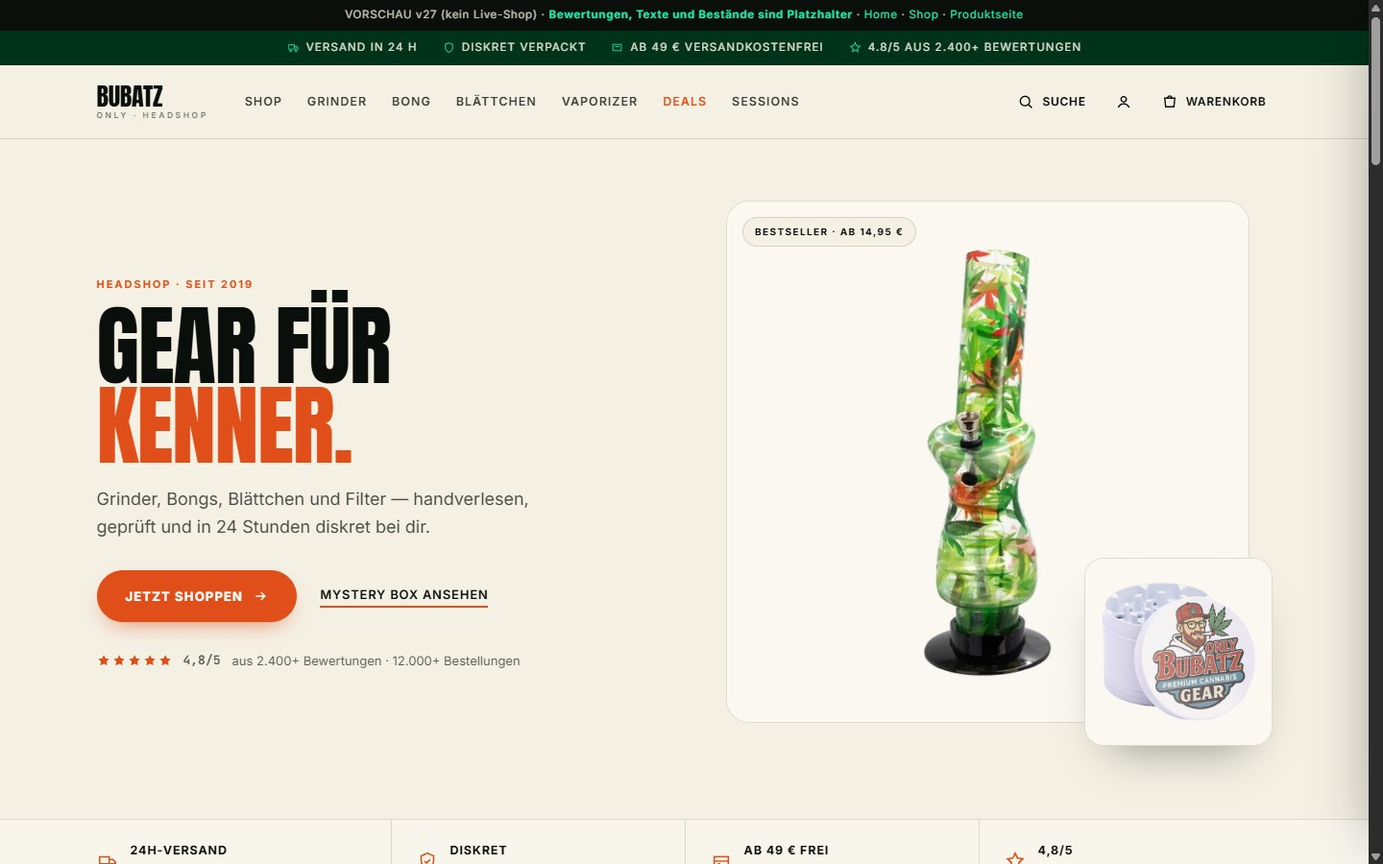
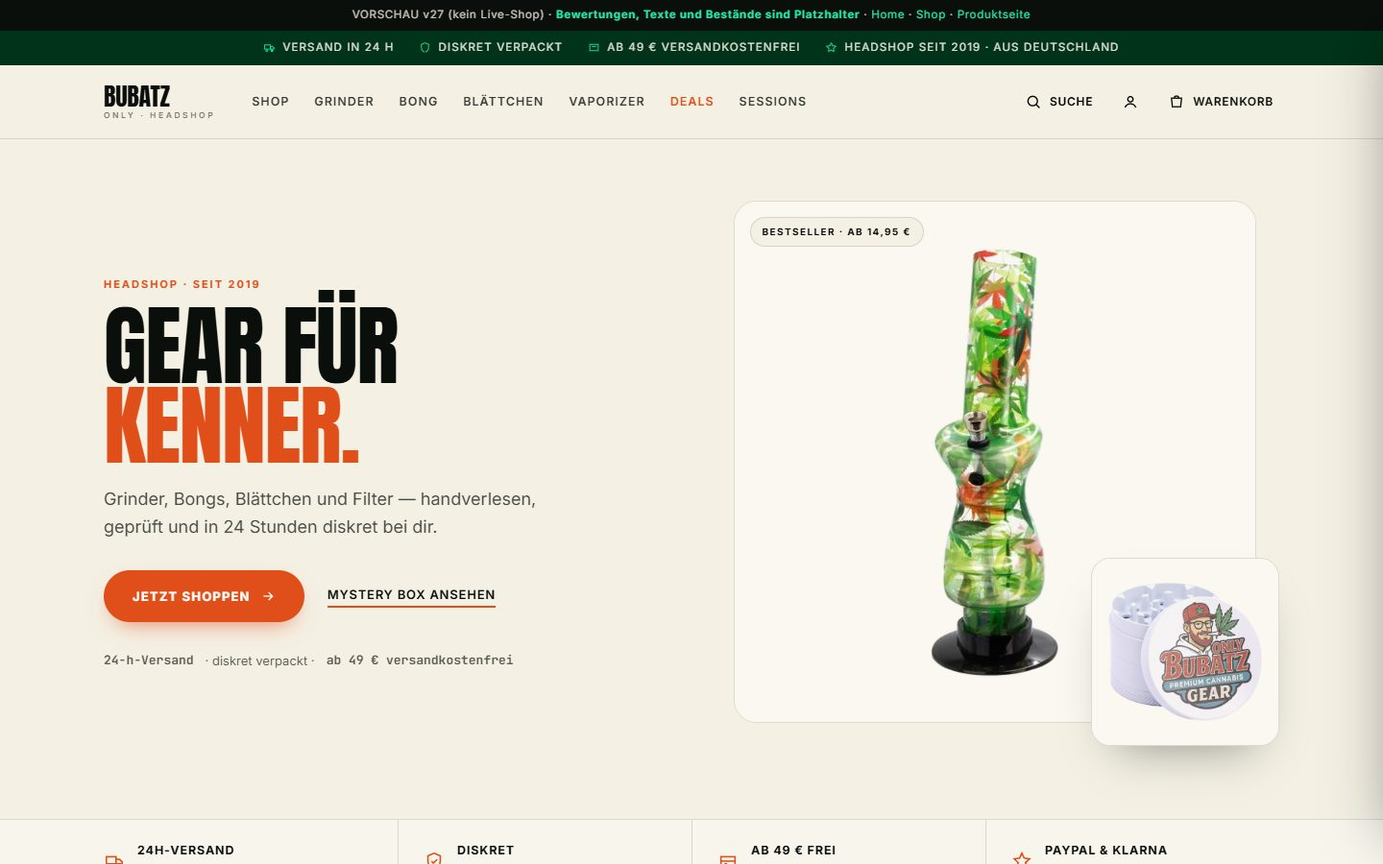
v27: erfundene Bewertungen, Bestellzahlen und Streichpreise entfernt
- Vorschau-Leiste: '4.8/5 aus 2.400+ Bewertungen' -> 'HEADSHOP SEIT 2019 · AUS DEUTSCHLAND'
- Hero-Proof: Sterne-Zeile -> '24-h-Versand · diskret · ab 49 € versandkostenfrei'
- Benefit 4: '4,8/5 / 2.400+ Bewertungen' -> 'PayPal & Klarna / Zahlung wie gewohnt'
- Revband Startseite: 4,8 + drei erfundene Kunden -> Hinweis auf die 3 echten Bewertungen
- PDP: '328 Bewertungen · 12 heute gekauft', '4,9 von 5', '96 %' und drei erfundene Kunden entfernt
- Streichpreis: 24,99/29,99 (-17%, 29,99 existiert nicht) -> 21,99/24,99 (-12%, Katalog)
- Screenshots v27-*.jpg neu aufgenommen (1440x900)
- geprueft: 0 Treffer der alten Zahlen, 1440/390 ohne Ueberlauf, 0 kaputte Bilder

diff --git a/v27/shop.html b/v27/shop.html
@@ -19,7 +19,7 @@
   <span><svg viewBox="0 0 24 24" fill="none" stroke-width="1.8"><path d="M3 7h11v8H3zM14 10h4l3 3v2h-7z"/><circle cx="7" cy="18" r="1.6"/><circle cx="17" cy="18" r="1.6"/></svg> Versand in 24 h</span>
   <span><svg viewBox="0 0 24 24" fill="none" stroke-width="1.8"><path d="M12 3l7 3v6c0 4.2-2.9 7.7-7 9-4.1-1.3-7-4.8-7-9V6z"/></svg> Diskret verpackt</span>
   <span><svg viewBox="0 0 24 24" fill="none" stroke-width="1.8"><path d="M4 6h16v12H4z"/><path d="M8 10h8"/></svg> Ab 49 € versandkostenfrei</span>
-  <span><svg viewBox="0 0 24 24" fill="none" stroke-width="1.8"><path d="M12 3l2.6 5.6 6.1.8-4.5 4.3 1.1 6-5.3-3-5.3 3 1.1-6L3.3 9.4l6.1-.8z"/></svg> 4.8/5 aus 2.400+ Bewertungen</span>
+  <span><svg viewBox="0 0 24 24" fill="none" stroke-width="1.8"><path d="M12 3l2.6 5.6 6.1.8-4.5 4.3 1.1 6-5.3-3-5.3 3 1.1-6L3.3 9.4l6.1-.8z"/></svg> HEADSHOP SEIT 2019 · AUS DEUTSCHLAND</span>
 </div></div>
 <header class="site"><div class="wrap">
   <a class="logo" href="index.html">Bubatz<small>Only · Headshop</small></a>
@@ -78,7 +78,6 @@
         <div class="body">
           <div class="brandline">V-SYNDICATE</div>
           <h3>V-Syndicate Card - Metall-Grinderkarte 420 LEAVES</h3>
-          <div class="rate"><span class="stars"><svg viewBox="0 0 24 24"><path d="M12 2l3.1 6.3 6.9 1-5 4.9 1.2 6.8L12 17.8 5.8 21l1.2-6.8-5-4.9 6.9-1z"/></svg><svg viewBox="0 0 24 24"><path d="M12 2l3.1 6.3 6.9 1-5 4.9 1.2 6.8L12 17.8 5.8 21l1.2-6.8-5-4.9 6.9-1z"/></svg><svg viewBox="0 0 24 24"><path d="M12 2l3.1 6.3 6.9 1-5 4.9 1.2 6.8L12 17.8 5.8 21l1.2-6.8-5-4.9 6.9-1z"/></svg><svg viewBox="0 0 24 24"><path d="M12 2l3.1 6.3 6.9 1-5 4.9 1.2 6.8L12 17.8 5.8 21l1.2-6.8-5-4.9 6.9-1z"/></svg><svg viewBox="0 0 24 24"><path d="M12 2l3.1 6.3 6.9 1-5 4.9 1.2 6.8L12 17.8 5.8 21l1.2-6.8-5-4.9 6.9-1z"/></svg></span><span>4,9 (412)</span></div>
           <div class="pricerow"><b>6,90 €</b></div>
           <div class="stock"><i class="dot"></i>Auf Lager</div>
           <button class="add">In den Warenkorb</button>
@@ -93,7 +92,6 @@
         <div class="body">
           <div class="brandline">V-SYNDICATE</div>
           <h3>V-Syndicate Card - Metall-Grinderkarte Amsterdam Leaf</h3>
-          <div class="rate"><span class="stars"><svg viewBox="0 0 24 24"><path d="M12 2l3.1 6.3 6.9 1-5 4.9 1.2 6.8L12 17.8 5.8 21l1.2-6.8-5-4.9 6.9-1z"/></svg><svg viewBox="0 0 24 24"><path d="M12 2l3.1 6.3 6.9 1-5 4.9 1.2 6.8L12 17.8 5.8 21l1.2-6.8-5-4.9 6.9-1z"/></svg><svg viewBox="0 0 24 24"><path d="M12 2l3.1 6.3 6.9 1-5 4.9 1.2 6.8L12 17.8 5.8 21l1.2-6.8-5-4.9 6.9-1z"/></svg><svg viewBox="0 0 24 24"><path d="M12 2l3.1 6.3 6.9 1-5 4.9 1.2 6.8L12 17.8 5.8 21l1.2-6.8-5-4.9 6.9-1z"/></svg><svg viewBox="0 0 24 24"><path d="M12 2l3.1 6.3 6.9 1-5 4.9 1.2 6.8L12 17.8 5.8 21l1.2-6.8-5-4.9 6.9-1z"/></svg></span><span>4,7 (188)</span></div>
           <div class="pricerow"><b>6,90 €</b></div>
           <div class="stock"><i class="dot"></i>Auf Lager</div>
           <button class="add">In den Warenkorb</button>
@@ -108,7 +106,6 @@
         <div class="body">
           <div class="brandline">RAW</div>
           <h3>RAW V-Shredder Card - Metall-Grinderkarte</h3>
-          <div class="rate"><span class="stars"><svg viewBox="0 0 24 24"><path d="M12 2l3.1 6.3 6.9 1-5 4.9 1.2 6.8L12 17.8 5.8 21l1.2-6.8-5-4.9 6.9-1z"/></svg><svg viewBox="0 0 24 24"><path d="M12 2l3.1 6.3 6.9 1-5 4.9 1.2 6.8L12 17.8 5.8 21l1.2-6.8-5-4.9 6.9-1z"/></svg><svg viewBox="0 0 24 24"><path d="M12 2l3.1 6.3 6.9 1-5 4.9 1.2 6.8L12 17.8 5.8 21l1.2-6.8-5-4.9 6.9-1z"/></svg><svg viewBox="0 0 24 24"><path d="M12 2l3.1 6.3 6.9 1-5 4.9 1.2 6.8L12 17.8 5.8 21l1.2-6.8-5-4.9 6.9-1z"/></svg><svg viewBox="0 0 24 24"><path d="M12 2l3.1 6.3 6.9 1-5 4.9 1.2 6.8L12 17.8 5.8 21l1.2-6.8-5-4.9 6.9-1z"/></svg></span><span>4,8 (96)</span></div>
           <div class="pricerow"><b>9,49 €</b></div>
           <div class="stock"><i class="dot"></i>Auf Lager</div>
           <button class="add">In den Warenkorb</button>
@@ -123,7 +120,6 @@
         <div class="body">
           <div class="brandline">RAW</div>
           <h3>RAW x Hammercraft Aluminium Grinder/Pollinator, 4-part, ø 62mm, L  schwarz</h3>
-          <div class="rate"><span class="stars"><svg viewBox="0 0 24 24"><path d="M12 2l3.1 6.3 6.9 1-5 4.9 1.2 6.8L12 17.8 5.8 21l1.2-6.8-5-4.9 6.9-1z"/></svg><svg viewBox="0 0 24 24"><path d="M12 2l3.1 6.3 6.9 1-5 4.9 1.2 6.8L12 17.8 5.8 21l1.2-6.8-5-4.9 6.9-1z"/></svg><svg viewBox="0 0 24 24"><path d="M12 2l3.1 6.3 6.9 1-5 4.9 1.2 6.8L12 17.8 5.8 21l1.2-6.8-5-4.9 6.9-1z"/></svg><svg viewBox="0 0 24 24"><path d="M12 2l3.1 6.3 6.9 1-5 4.9 1.2 6.8L12 17.8 5.8 21l1.2-6.8-5-4.9 6.9-1z"/></svg><svg viewBox="0 0 24 24"><path d="M12 2l3.1 6.3 6.9 1-5 4.9 1.2 6.8L12 17.8 5.8 21l1.2-6.8-5-4.9 6.9-1z"/></svg></span><span>4,6 (233)</span></div>
           <div class="pricerow"><b>21,99 €</b><s>24,99 €</s><span class='off'>-12%</span></div>
           <div class="stock"><i class="dot"></i>Auf Lager</div>
           <button class="add">In den Warenkorb</button>
@@ -138,7 +134,6 @@
         <div class="body">
           <div class="brandline">RAW</div>
           <h3>RAW x Hammercraft Aluminium Grinder/Pollinator, 4-part, ø 55mm, M  schwarz</h3>
-          <div class="rate"><span class="stars"><svg viewBox="0 0 24 24"><path d="M12 2l3.1 6.3 6.9 1-5 4.9 1.2 6.8L12 17.8 5.8 21l1.2-6.8-5-4.9 6.9-1z"/></svg><svg viewBox="0 0 24 24"><path d="M12 2l3.1 6.3 6.9 1-5 4.9 1.2 6.8L12 17.8 5.8 21l1.2-6.8-5-4.9 6.9-1z"/></svg><svg viewBox="0 0 24 24"><path d="M12 2l3.1 6.3 6.9 1-5 4.9 1.2 6.8L12 17.8 5.8 21l1.2-6.8-5-4.9 6.9-1z"/></svg><svg viewBox="0 0 24 24"><path d="M12 2l3.1 6.3 6.9 1-5 4.9 1.2 6.8L12 17.8 5.8 21l1.2-6.8-5-4.9 6.9-1z"/></svg><svg viewBox="0 0 24 24"><path d="M12 2l3.1 6.3 6.9 1-5 4.9 1.2 6.8L12 17.8 5.8 21l1.2-6.8-5-4.9 6.9-1z"/></svg></span><span>4,9 (74)</span></div>
           <div class="pricerow"><b>21,99 €</b><s>24,99 €</s><span class='off'>-12%</span></div>
           <div class="stock"><i class="dot"></i>Auf Lager</div>
           <button class="add">In den Warenkorb</button>
@@ -153,7 +148,6 @@
         <div class="body">
           <div class="brandline">RAW</div>
           <h3>RAW CNC Aluminium Mühle/Grinder Polinator</h3>
-          <div class="rate"><span class="stars"><svg viewBox="0 0 24 24"><path d="M12 2l3.1 6.3 6.9 1-5 4.9 1.2 6.8L12 17.8 5.8 21l1.2-6.8-5-4.9 6.9-1z"/></svg><svg viewBox="0 0 24 24"><path d="M12 2l3.1 6.3 6.9 1-5 4.9 1.2 6.8L12 17.8 5.8 21l1.2-6.8-5-4.9 6.9-1z"/></svg><svg viewBox="0 0 24 24"><path d="M12 2l3.1 6.3 6.9 1-5 4.9 1.2 6.8L12 17.8 5.8 21l1.2-6.8-5-4.9 6.9-1z"/></svg><svg viewBox="0 0 24 24"><path d="M12 2l3.1 6.3 6.9 1-5 4.9 1.2 6.8L12 17.8 5.8 21l1.2-6.8-5-4.9 6.9-1z"/></svg><svg viewBox="0 0 24 24"><path d="M12 2l3.1 6.3 6.9 1-5 4.9 1.2 6.8L12 17.8 5.8 21l1.2-6.8-5-4.9 6.9-1z"/></svg></span><span>4,8 (51)</span></div>
           <div class="pricerow"><b>19,90 €</b></div>
           <div class="stock"><i class="dot low"></i>Nur noch 2 Stück</div>
           <button class="add">In den Warenkorb</button>
@@ -168,7 +162,6 @@
         <div class="body">
           <div class="brandline">ONLY BUBATZ</div>
           <h3>Only Bubatz CNC Aluminium Mühle / Grinder 4-teilig</h3>
-          <div class="rate"><span class="stars"><svg viewBox="0 0 24 24"><path d="M12 2l3.1 6.3 6.9 1-5 4.9 1.2 6.8L12 17.8 5.8 21l1.2-6.8-5-4.9 6.9-1z"/></svg><svg viewBox="0 0 24 24"><path d="M12 2l3.1 6.3 6.9 1-5 4.9 1.2 6.8L12 17.8 5.8 21l1.2-6.8-5-4.9 6.9-1z"/></svg><svg viewBox="0 0 24 24"><path d="M12 2l3.1 6.3 6.9 1-5 4.9 1.2 6.8L12 17.8 5.8 21l1.2-6.8-5-4.9 6.9-1z"/></svg><svg viewBox="0 0 24 24"><path d="M12 2l3.1 6.3 6.9 1-5 4.9 1.2 6.8L12 17.8 5.8 21l1.2-6.8-5-4.9 6.9-1z"/></svg><svg viewBox="0 0 24 24"><path d="M12 2l3.1 6.3 6.9 1-5 4.9 1.2 6.8L12 17.8 5.8 21l1.2-6.8-5-4.9 6.9-1z"/></svg></span><span>4,5 (620)</span></div>
           <div class="pricerow"><b>9,99 €</b></div>
           <div class="stock"><i class="dot"></i>Auf Lager</div>
           <button class="add">In den Warenkorb</button>
@@ -183,7 +176,6 @@
         <div class="body">
           <div class="brandline">HEMP</div>
           <h3>Hemp Metallmühle mit Aufbewahrungsglas</h3>
-          <div class="rate"><span class="stars"><svg viewBox="0 0 24 24"><path d="M12 2l3.1 6.3 6.9 1-5 4.9 1.2 6.8L12 17.8 5.8 21l1.2-6.8-5-4.9 6.9-1z"/></svg><svg viewBox="0 0 24 24"><path d="M12 2l3.1 6.3 6.9 1-5 4.9 1.2 6.8L12 17.8 5.8 21l1.2-6.8-5-4.9 6.9-1z"/></svg><svg viewBox="0 0 24 24"><path d="M12 2l3.1 6.3 6.9 1-5 4.9 1.2 6.8L12 17.8 5.8 21l1.2-6.8-5-4.9 6.9-1z"/></svg><svg viewBox="0 0 24 24"><path d="M12 2l3.1 6.3 6.9 1-5 4.9 1.2 6.8L12 17.8 5.8 21l1.2-6.8-5-4.9 6.9-1z"/></svg><svg viewBox="0 0 24 24"><path d="M12 2l3.1 6.3 6.9 1-5 4.9 1.2 6.8L12 17.8 5.8 21l1.2-6.8-5-4.9 6.9-1z"/></svg></span><span>4,7 (143)</span></div>
           <div class="pricerow"><b>7,99 €</b></div>
           <div class="stock"><i class="dot"></i>Auf Lager</div>
           <button class="add">In den Warenkorb</button>
@@ -198,7 +190,6 @@
         <div class="body">
           <div class="brandline">OCB</div>
           <h3>OCB Premium Purpfeife mit Filteradapter</h3>
-          <div class="rate"><span class="stars"><svg viewBox="0 0 24 24"><path d="M12 2l3.1 6.3 6.9 1-5 4.9 1.2 6.8L12 17.8 5.8 21l1.2-6.8-5-4.9 6.9-1z"/></svg><svg viewBox="0 0 24 24"><path d="M12 2l3.1 6.3 6.9 1-5 4.9 1.2 6.8L12 17.8 5.8 21l1.2-6.8-5-4.9 6.9-1z"/></svg><svg viewBox="0 0 24 24"><path d="M12 2l3.1 6.3 6.9 1-5 4.9 1.2 6.8L12 17.8 5.8 21l1.2-6.8-5-4.9 6.9-1z"/></svg><svg viewBox="0 0 24 24"><path d="M12 2l3.1 6.3 6.9 1-5 4.9 1.2 6.8L12 17.8 5.8 21l1.2-6.8-5-4.9 6.9-1z"/></svg><svg viewBox="0 0 24 24"><path d="M12 2l3.1 6.3 6.9 1-5 4.9 1.2 6.8L12 17.8 5.8 21l1.2-6.8-5-4.9 6.9-1z"/></svg></span><span>4,9 (412)</span></div>
           <div class="pricerow"><b>44,90 €</b></div>
           <div class="stock"><i class="dot"></i>Auf Lager</div>
           <button class="add">In den Warenkorb</button>
@@ -213,7 +204,6 @@
         <div class="body">
           <div class="brandline">ACRYL</div>
           <h3>Acryl Mini Bong Straight &quot;Rastaman&quot;</h3>
-          <div class="rate"><span class="stars"><svg viewBox="0 0 24 24"><path d="M12 2l3.1 6.3 6.9 1-5 4.9 1.2 6.8L12 17.8 5.8 21l1.2-6.8-5-4.9 6.9-1z"/></svg><svg viewBox="0 0 24 24"><path d="M12 2l3.1 6.3 6.9 1-5 4.9 1.2 6.8L12 17.8 5.8 21l1.2-6.8-5-4.9 6.9-1z"/></svg><svg viewBox="0 0 24 24"><path d="M12 2l3.1 6.3 6.9 1-5 4.9 1.2 6.8L12 17.8 5.8 21l1.2-6.8-5-4.9 6.9-1z"/></svg><svg viewBox="0 0 24 24"><path d="M12 2l3.1 6.3 6.9 1-5 4.9 1.2 6.8L12 17.8 5.8 21l1.2-6.8-5-4.9 6.9-1z"/></svg><svg viewBox="0 0 24 24"><path d="M12 2l3.1 6.3 6.9 1-5 4.9 1.2 6.8L12 17.8 5.8 21l1.2-6.8-5-4.9 6.9-1z"/></svg></span><span>4,7 (188)</span></div>
           <div class="pricerow"><b>3,95 €</b></div>
           <div class="stock"><i class="dot"></i>Auf Lager</div>
           <button class="add">In den Warenkorb</button>
@@ -228,7 +218,6 @@
         <div class="body">
           <div class="brandline">ACRYL</div>
           <h3>Acryl Mini Bong Bubble Straight &#x27;&#x27; LEAF&#x27;&#x27;</h3>
-          <div class="rate"><span class="stars"><svg viewBox="0 0 24 24"><path d="M12 2l3.1 6.3 6.9 1-5 4.9 1.2 6.8L12 17.8 5.8 21l1.2-6.8-5-4.9 6.9-1z"/></svg><svg viewBox="0 0 24 24"><path d="M12 2l3.1 6.3 6.9 1-5 4.9 1.2 6.8L12 17.8 5.8 21l1.2-6.8-5-4.9 6.9-1z"/></svg><svg viewBox="0 0 24 24"><path d="M12 2l3.1 6.3 6.9 1-5 4.9 1.2 6.8L12 17.8 5.8 21l1.2-6.8-5-4.9 6.9-1z"/></svg><svg viewBox="0 0 24 24"><path d="M12 2l3.1 6.3 6.9 1-5 4.9 1.2 6.8L12 17.8 5.8 21l1.2-6.8-5-4.9 6.9-1z"/></svg><svg viewBox="0 0 24 24"><path d="M12 2l3.1 6.3 6.9 1-5 4.9 1.2 6.8L12 17.8 5.8 21l1.2-6.8-5-4.9 6.9-1z"/></svg></span><span>4,8 (96)</span></div>
           <div class="pricerow"><b>9,95 €</b></div>
           <div class="stock"><i class="dot"></i>Auf Lager</div>
           <button class="add">In den Warenkorb</button>
@@ -243,7 +232,6 @@
         <div class="body">
           <div class="brandline">ROSENHOLZ</div>
           <h3>Rosenholz Pfeife, XL 28cm</h3>
-          <div class="rate"><span class="stars"><svg viewBox="0 0 24 24"><path d="M12 2l3.1 6.3 6.9 1-5 4.9 1.2 6.8L12 17.8 5.8 21l1.2-6.8-5-4.9 6.9-1z"/></svg><svg viewBox="0 0 24 24"><path d="M12 2l3.1 6.3 6.9 1-5 4.9 1.2 6.8L12 17.8 5.8 21l1.2-6.8-5-4.9 6.9-1z"/></svg><svg viewBox="0 0 24 24"><path d="M12 2l3.1 6.3 6.9 1-5 4.9 1.2 6.8L12 17.8 5.8 21l1.2-6.8-5-4.9 6.9-1z"/></svg><svg viewBox="0 0 24 24"><path d="M12 2l3.1 6.3 6.9 1-5 4.9 1.2 6.8L12 17.8 5.8 21l1.2-6.8-5-4.9 6.9-1z"/></svg><svg viewBox="0 0 24 24"><path d="M12 2l3.1 6.3 6.9 1-5 4.9 1.2 6.8L12 17.8 5.8 21l1.2-6.8-5-4.9 6.9-1z"/></svg></span><span>4,6 (233)</span></div>
           <div class="pricerow"><b>14,95 €</b></div>
           <div class="stock"><i class="dot"></i>Auf Lager</div>
           <button class="add">In den Warenkorb</button>
@@ -258,7 +246,6 @@
         <div class="body">
           <div class="brandline">ACRYL</div>
           <h3>Acryl Bong Joystick Hand Grip - &quot;Leaf Design&quot;</h3>
-          <div class="rate"><span class="stars"><svg viewBox="0 0 24 24"><path d="M12 2l3.1 6.3 6.9 1-5 4.9 1.2 6.8L12 17.8 5.8 21l1.2-6.8-5-4.9 6.9-1z"/></svg><svg viewBox="0 0 24 24"><path d="M12 2l3.1 6.3 6.9 1-5 4.9 1.2 6.8L12 17.8 5.8 21l1.2-6.8-5-4.9 6.9-1z"/></svg><svg viewBox="0 0 24 24"><path d="M12 2l3.1 6.3 6.9 1-5 4.9 1.2 6.8L12 17.8 5.8 21l1.2-6.8-5-4.9 6.9-1z"/></svg><svg viewBox="0 0 24 24"><path d="M12 2l3.1 6.3 6.9 1-5 4.9 1.2 6.8L12 17.8 5.8 21l1.2-6.8-5-4.9 6.9-1z"/></svg><svg viewBox="0 0 24 24"><path d="M12 2l3.1 6.3 6.9 1-5 4.9 1.2 6.8L12 17.8 5.8 21l1.2-6.8-5-4.9 6.9-1z"/></svg></span><span>4,9 (74)</span></div>
           <div class="pricerow"><b>14,95 €</b></div>
           <div class="stock"><i class="dot"></i>Auf Lager</div>
           <button class="add">In den Warenkorb</button>
@@ -273,7 +260,6 @@
         <div class="body">
           <div class="brandline">ONLY BUBATZ</div>
           <h3>Glas-Bong Beaker Kolbenbong, ca. 25cm, &quot;Dollar&quot;</h3>
-          <div class="rate"><span class="stars"><svg viewBox="0 0 24 24"><path d="M12 2l3.1 6.3 6.9 1-5 4.9 1.2 6.8L12 17.8 5.8 21l1.2-6.8-5-4.9 6.9-1z"/></svg><svg viewBox="0 0 24 24"><path d="M12 2l3.1 6.3 6.9 1-5 4.9 1.2 6.8L12 17.8 5.8 21l1.2-6.8-5-4.9 6.9-1z"/></svg><svg viewBox="0 0 24 24"><path d="M12 2l3.1 6.3 6.9 1-5 4.9 1.2 6.8L12 17.8 5.8 21l1.2-6.8-5-4.9 6.9-1z"/></svg><svg viewBox="0 0 24 24"><path d="M12 2l3.1 6.3 6.9 1-5 4.9 1.2 6.8L12 17.8 5.8 21l1.2-6.8-5-4.9 6.9-1z"/></svg><svg viewBox="0 0 24 24"><path d="M12 2l3.1 6.3 6.9 1-5 4.9 1.2 6.8L12 17.8 5.8 21l1.2-6.8-5-4.9 6.9-1z"/></svg></span><span>4,8 (51)</span></div>
           <div class="pricerow"><b>19,95 €</b></div>
           <div class="stock"><i class="dot"></i>Auf Lager</div>
           <button class="add">In den Warenkorb</button>
@@ -288,7 +274,6 @@
         <div class="body">
           <div class="brandline">SMOKING</div>
           <h3>Smoking THINNEST (rot) King Size Zigarettenpapier</h3>
-          <div class="rate"><span class="stars"><svg viewBox="0 0 24 24"><path d="M12 2l3.1 6.3 6.9 1-5 4.9 1.2 6.8L12 17.8 5.8 21l1.2-6.8-5-4.9 6.9-1z"/></svg><svg viewBox="0 0 24 24"><path d="M12 2l3.1 6.3 6.9 1-5 4.9 1.2 6.8L12 17.8 5.8 21l1.2-6.8-5-4.9 6.9-1z"/></svg><svg viewBox="0 0 24 24"><path d="M12 2l3.1 6.3 6.9 1-5 4.9 1.2 6.8L12 17.8 5.8 21l1.2-6.8-5-4.9 6.9-1z"/></svg><svg viewBox="0 0 24 24"><path d="M12 2l3.1 6.3 6.9 1-5 4.9 1.2 6.8L12 17.8 5.8 21l1.2-6.8-5-4.9 6.9-1z"/></svg><svg viewBox="0 0 24 24"><path d="M12 2l3.1 6.3 6.9 1-5 4.9 1.2 6.8L12 17.8 5.8 21l1.2-6.8-5-4.9 6.9-1z"/></svg></span><span>4,5 (620)</span></div>
           <div class="pricerow"><b>1,25 €</b></div>
           <div class="stock"><i class="dot"></i>Auf Lager</div>
           <button class="add">In den Warenkorb</button>
@@ -303,7 +288,6 @@
         <div class="body">
           <div class="brandline">SMOKING</div>
           <h3>Smoking Red King Size Zigarettenpapier</h3>
-          <div class="rate"><span class="stars"><svg viewBox="0 0 24 24"><path d="M12 2l3.1 6.3 6.9 1-5 4.9 1.2 6.8L12 17.8 5.8 21l1.2-6.8-5-4.9 6.9-1z"/></svg><svg viewBox="0 0 24 24"><path d="M12 2l3.1 6.3 6.9 1-5 4.9 1.2 6.8L12 17.8 5.8 21l1.2-6.8-5-4.9 6.9-1z"/></svg><svg viewBox="0 0 24 24"><path d="M12 2l3.1 6.3 6.9 1-5 4.9 1.2 6.8L12 17.8 5.8 21l1.2-6.8-5-4.9 6.9-1z"/></svg><svg viewBox="0 0 24 24"><path d="M12 2l3.1 6.3 6.9 1-5 4.9 1.2 6.8L12 17.8 5.8 21l1.2-6.8-5-4.9 6.9-1z"/></svg><svg viewBox="0 0 24 24"><path d="M12 2l3.1 6.3 6.9 1-5 4.9 1.2 6.8L12 17.8 5.8 21l1.2-6.8-5-4.9 6.9-1z"/></svg></span><span>4,7 (143)</span></div>
           <div class="pricerow"><b>1,29 €</b></div>
           <div class="stock"><i class="dot"></i>Auf Lager</div>
           <button class="add">In den Warenkorb</button>

diff --git a/v27/produkt.html b/v27/produkt.html
@@ -19,7 +19,7 @@
   <span><svg viewBox="0 0 24 24" fill="none" stroke-width="1.8"><path d="M3 7h11v8H3zM14 10h4l3 3v2h-7z"/><circle cx="7" cy="18" r="1.6"/><circle cx="17" cy="18" r="1.6"/></svg> Versand in 24 h</span>
   <span><svg viewBox="0 0 24 24" fill="none" stroke-width="1.8"><path d="M12 3l7 3v6c0 4.2-2.9 7.7-7 9-4.1-1.3-7-4.8-7-9V6z"/></svg> Diskret verpackt</span>
   <span><svg viewBox="0 0 24 24" fill="none" stroke-width="1.8"><path d="M4 6h16v12H4z"/><path d="M8 10h8"/></svg> Ab 49 € versandkostenfrei</span>
-  <span><svg viewBox="0 0 24 24" fill="none" stroke-width="1.8"><path d="M12 3l2.6 5.6 6.1.8-4.5 4.3 1.1 6-5.3-3-5.3 3 1.1-6L3.3 9.4l6.1-.8z"/></svg> 4.8/5 aus 2.400+ Bewertungen</span>
+  <span><svg viewBox="0 0 24 24" fill="none" stroke-width="1.8"><path d="M12 3l2.6 5.6 6.1.8-4.5 4.3 1.1 6-5.3-3-5.3 3 1.1-6L3.3 9.4l6.1-.8z"/></svg> HEADSHOP SEIT 2019 · AUS DEUTSCHLAND</span>
 </div></div>
 <header class="site"><div class="wrap">
   <a class="logo" href="index.html">Bubatz<small>Only · Headshop</small></a>
@@ -52,9 +52,9 @@
     <div class="buybox">
       <div class="brandline">RAW</div>
       <h1>RAW x Hammercraft Grinder ø 62 mm</h1>
-      <div class="ratingline"><span class="stars"><svg viewBox="0 0 24 24"><path d="M12 2l3.1 6.3 6.9 1-5 4.9 1.2 6.8L12 17.8 5.8 21l1.2-6.8-5-4.9 6.9-1z"/></svg><svg viewBox="0 0 24 24"><path d="M12 2l3.1 6.3 6.9 1-5 4.9 1.2 6.8L12 17.8 5.8 21l1.2-6.8-5-4.9 6.9-1z"/></svg><svg viewBox="0 0 24 24"><path d="M12 2l3.1 6.3 6.9 1-5 4.9 1.2 6.8L12 17.8 5.8 21l1.2-6.8-5-4.9 6.9-1z"/></svg><svg viewBox="0 0 24 24"><path d="M12 2l3.1 6.3 6.9 1-5 4.9 1.2 6.8L12 17.8 5.8 21l1.2-6.8-5-4.9 6.9-1z"/></svg><svg viewBox="0 0 24 24"><path d="M12 2l3.1 6.3 6.9 1-5 4.9 1.2 6.8L12 17.8 5.8 21l1.2-6.8-5-4.9 6.9-1z"/></svg></span><b>4,9</b> <a href="#bewertungen">328 Bewertungen</a> <span style="margin-left:auto;color:#0a7c4b;font-weight:600">● 12 heute gekauft</span></div>
+      <div class="ratingline"><b>Versand in 24 h</b> · ab 49 € frei · Verkauf ab 18</div>
 
-      <div class="priceblock"><b>24,99 €</b><s>29,99 €</s><span class="off">-17%</span></div>
+      <div class="priceblock"><b>21,99 €</b><s>24,99 €</s><span class="off">-12%</span></div>
       <div class="vat">inkl. MwSt., zzgl. Versand · <b style="color:#0a7c4b">ab 49 € versandkostenfrei</b></div>
 
       <div class="optlabel">Farbe <span>Silber gewählt</span></div>
@@ -111,7 +111,6 @@
         <div class="body">
           <div class="brandline">RAW</div>
           <h3>RAW x Hammercraft Aluminium Grinder/Pollinator, 4-part, ø 62mm, L  schwarz</h3>
-          <div class="rate"><span class="stars"><svg viewBox="0 0 24 24"><path d="M12 2l3.1 6.3 6.9 1-5 4.9 1.2 6.8L12 17.8 5.8 21l1.2-6.8-5-4.9 6.9-1z"/></svg><svg viewBox="0 0 24 24"><path d="M12 2l3.1 6.3 6.9 1-5 4.9 1.2 6.8L12 17.8 5.8 21l1.2-6.8-5-4.9 6.9-1z"/></svg><svg viewBox="0 0 24 24"><path d="M12 2l3.1 6.3 6.9 1-5 4.9 1.2 6.8L12 17.8 5.8 21l1.2-6.8-5-4.9 6.9-1z"/></svg><svg viewBox="0 0 24 24"><path d="M12 2l3.1 6.3 6.9 1-5 4.9 1.2 6.8L12 17.8 5.8 21l1.2-6.8-5-4.9 6.9-1z"/></svg><svg viewBox="0 0 24 24"><path d="M12 2l3.1 6.3 6.9 1-5 4.9 1.2 6.8L12 17.8 5.8 21l1.2-6.8-5-4.9 6.9-1z"/></svg></span><span>4,9 (412)</span></div>
           <div class="pricerow"><b>21,99 €</b><s>24,99 €</s><span class='off'>-12%</span></div>
           <div class="stock"><i class="dot"></i>Auf Lager</div>
           <button class="add">In den Warenkorb</button>
@@ -126,7 +125,6 @@
         <div class="body">
           <div class="brandline">SMOKING</div>
           <h3>SMOKING Active Filters Aktivkohlefilter Slim ø6mm 30er Kissenschachtel</h3>
-          <div class="rate"><span class="stars"><svg viewBox="0 0 24 24"><path d="M12 2l3.1 6.3 6.9 1-5 4.9 1.2 6.8L12 17.8 5.8 21l1.2-6.8-5-4.9 6.9-1z"/></svg><svg viewBox="0 0 24 24"><path d="M12 2l3.1 6.3 6.9 1-5 4.9 1.2 6.8L12 17.8 5.8 21l1.2-6.8-5-4.9 6.9-1z"/></svg><svg viewBox="0 0 24 24"><path d="M12 2l3.1 6.3 6.9 1-5 4.9 1.2 6.8L12 17.8 5.8 21l1.2-6.8-5-4.9 6.9-1z"/></svg><svg viewBox="0 0 24 24"><path d="M12 2l3.1 6.3 6.9 1-5 4.9 1.2 6.8L12 17.8 5.8 21l1.2-6.8-5-4.9 6.9-1z"/></svg><svg viewBox="0 0 24 24"><path d="M12 2l3.1 6.3 6.9 1-5 4.9 1.2 6.8L12 17.8 5.8 21l1.2-6.8-5-4.9 6.9-1z"/></svg></span><span>4,7 (188)</span></div>
           <div class="pricerow"><b>5,95 €</b></div>
           <div class="stock"><i class="dot"></i>Auf Lager</div>
           <button class="add">In den Warenkorb</button>
@@ -141,7 +139,6 @@
         <div class="body">
           <div class="brandline">RAW</div>
           <h3>RAW - King Size Paper Tin - Metall Dose</h3>
-          <div class="rate"><span class="stars"><svg viewBox="0 0 24 24"><path d="M12 2l3.1 6.3 6.9 1-5 4.9 1.2 6.8L12 17.8 5.8 21l1.2-6.8-5-4.9 6.9-1z"/></svg><svg viewBox="0 0 24 24"><path d="M12 2l3.1 6.3 6.9 1-5 4.9 1.2 6.8L12 17.8 5.8 21l1.2-6.8-5-4.9 6.9-1z"/></svg><svg viewBox="0 0 24 24"><path d="M12 2l3.1 6.3 6.9 1-5 4.9 1.2 6.8L12 17.8 5.8 21l1.2-6.8-5-4.9 6.9-1z"/></svg><svg viewBox="0 0 24 24"><path d="M12 2l3.1 6.3 6.9 1-5 4.9 1.2 6.8L12 17.8 5.8 21l1.2-6.8-5-4.9 6.9-1z"/></svg><svg viewBox="0 0 24 24"><path d="M12 2l3.1 6.3 6.9 1-5 4.9 1.2 6.8L12 17.8 5.8 21l1.2-6.8-5-4.9 6.9-1z"/></svg></span><span>4,8 (96)</span></div>
           <div class="pricerow"><b>3,49 €</b></div>
           <div class="stock"><i class="dot"></i>Auf Lager</div>
           <button class="add">In den Warenkorb</button>
@@ -156,7 +153,6 @@
         <div class="body">
           <div class="brandline">TIGHTVAC</div>
           <h3>Tightvac Vakuum Kunstoffbehälter 0,29 Liter</h3>
-          <div class="rate"><span class="stars"><svg viewBox="0 0 24 24"><path d="M12 2l3.1 6.3 6.9 1-5 4.9 1.2 6.8L12 17.8 5.8 21l1.2-6.8-5-4.9 6.9-1z"/></svg><svg viewBox="0 0 24 24"><path d="M12 2l3.1 6.3 6.9 1-5 4.9 1.2 6.8L12 17.8 5.8 21l1.2-6.8-5-4.9 6.9-1z"/></svg><svg viewBox="0 0 24 24"><path d="M12 2l3.1 6.3 6.9 1-5 4.9 1.2 6.8L12 17.8 5.8 21l1.2-6.8-5-4.9 6.9-1z"/></svg><svg viewBox="0 0 24 24"><path d="M12 2l3.1 6.3 6.9 1-5 4.9 1.2 6.8L12 17.8 5.8 21l1.2-6.8-5-4.9 6.9-1z"/></svg><svg viewBox="0 0 24 24"><path d="M12 2l3.1 6.3 6.9 1-5 4.9 1.2 6.8L12 17.8 5.8 21l1.2-6.8-5-4.9 6.9-1z"/></svg></span><span>4,6 (233)</span></div>
           <div class="pricerow"><b>8,99 €</b></div>
           <div class="stock"><i class="dot"></i>Auf Lager</div>
           <button class="add">In den Warenkorb</button>
@@ -166,21 +162,14 @@
   </section>
 
   <section id="bewertungen" style="padding:70px 0 90px">
-    <div class="sechead"><div><div class="eyebrow">Bewertungen</div><h2>4,9 von 5 Sternen</h2>
-      <p>328 verifizierte Käufe · 96 % würden wieder kaufen</p></div>
+    <div class="sechead"><div><div class="eyebrow">Bewertungen</div><h2>Noch keine Bewertung zu diesem Artikel</h2>
+      <p>Im gesamten Shop existieren aktuell drei echte Bewertungen. Für diesen Artikel liegt keine vor —
+         Sterne erscheinen hier, sobald eine echte Bewertung eingeht.</p></div>
       <a class="link-quiet" href="#">Bewertung schreiben</a></div>
-    <div class="revgrid">
-      <div class="rev"><span class="stars"><svg viewBox="0 0 24 24"><path d="M12 2l3.1 6.3 6.9 1-5 4.9 1.2 6.8L12 17.8 5.8 21l1.2-6.8-5-4.9 6.9-1z"/></svg><svg viewBox="0 0 24 24"><path d="M12 2l3.1 6.3 6.9 1-5 4.9 1.2 6.8L12 17.8 5.8 21l1.2-6.8-5-4.9 6.9-1z"/></svg><svg viewBox="0 0 24 24"><path d="M12 2l3.1 6.3 6.9 1-5 4.9 1.2 6.8L12 17.8 5.8 21l1.2-6.8-5-4.9 6.9-1z"/></svg><svg viewBox="0 0 24 24"><path d="M12 2l3.1 6.3 6.9 1-5 4.9 1.2 6.8L12 17.8 5.8 21l1.2-6.8-5-4.9 6.9-1z"/></svg><svg viewBox="0 0 24 24"><path d="M12 2l3.1 6.3 6.9 1-5 4.9 1.2 6.8L12 17.8 5.8 21l1.2-6.8-5-4.9 6.9-1z"/></svg></span><p>„Verarbeitung top, sitzt satt, mahlt in zwei Drehungen. Nach vier Monaten noch kein Spiel.“</p>
-        <div class="who"><span class="avatar">DN</span><div><b>Daniel N.</b><div class="verified">Verifizierter Kauf · 25. Sep.</div></div></div></div>
-      <div class="rev"><span class="stars"><svg viewBox="0 0 24 24"><path d="M12 2l3.1 6.3 6.9 1-5 4.9 1.2 6.8L12 17.8 5.8 21l1.2-6.8-5-4.9 6.9-1z"/></svg><svg viewBox="0 0 24 24"><path d="M12 2l3.1 6.3 6.9 1-5 4.9 1.2 6.8L12 17.8 5.8 21l1.2-6.8-5-4.9 6.9-1z"/></svg><svg viewBox="0 0 24 24"><path d="M12 2l3.1 6.3 6.9 1-5 4.9 1.2 6.8L12 17.8 5.8 21l1.2-6.8-5-4.9 6.9-1z"/></svg><svg viewBox="0 0 24 24"><path d="M12 2l3.1 6.3 6.9 1-5 4.9 1.2 6.8L12 17.8 5.8 21l1.2-6.8-5-4.9 6.9-1z"/></svg><svg viewBox="0 0 24 24"><path d="M12 2l3.1 6.3 6.9 1-5 4.9 1.2 6.8L12 17.8 5.8 21l1.2-6.8-5-4.9 6.9-1z"/></svg></span><p>„Größe 62 mm ist perfekt für größere Mengen. Sieb gibt gut Kief ab.“</p>
-        <div class="who"><span class="avatar">SR</span><div><b>Saskia R.</b><div class="verified">Verifizierter Kauf · 12. Sep.</div></div></div></div>
-      <div class="rev"><span class="stars"><svg viewBox="0 0 24 24"><path d="M12 2l3.1 6.3 6.9 1-5 4.9 1.2 6.8L12 17.8 5.8 21l1.2-6.8-5-4.9 6.9-1z"/></svg><svg viewBox="0 0 24 24"><path d="M12 2l3.1 6.3 6.9 1-5 4.9 1.2 6.8L12 17.8 5.8 21l1.2-6.8-5-4.9 6.9-1z"/></svg><svg viewBox="0 0 24 24"><path d="M12 2l3.1 6.3 6.9 1-5 4.9 1.2 6.8L12 17.8 5.8 21l1.2-6.8-5-4.9 6.9-1z"/></svg><svg viewBox="0 0 24 24"><path d="M12 2l3.1 6.3 6.9 1-5 4.9 1.2 6.8L12 17.8 5.8 21l1.2-6.8-5-4.9 6.9-1z"/></svg><svg viewBox="0 0 24 24"><path d="M12 2l3.1 6.3 6.9 1-5 4.9 1.2 6.8L12 17.8 5.8 21l1.2-6.8-5-4.9 6.9-1z"/></svg></span><p>„Bestellt, 2 Tage später da, gut eingepackt. Preislich völlig fair für die Qualität.“</p>
-        <div class="who"><span class="avatar">JH</span><div><b>Jens H.</b><div class="verified">Verifizierter Kauf · 3. Sep.</div></div></div></div>
-    </div>
   </section>
 </div>
 <div class="stickybuy">
-  <div class="p">24,99 €<small>Ab 49 € versandfrei</small></div>
+  <div class="p">21,99 €<small>Ab 49 € versandfrei</small></div>
   <button class="btn btn-primary">In den Warenkorb</button>
 </div>
 <footer class="site"><div class="wrap">

diff --git a/v27/index.html b/v27/index.html
@@ -19,7 +19,7 @@
   <span><svg viewBox="0 0 24 24" fill="none" stroke-width="1.8"><path d="M3 7h11v8H3zM14 10h4l3 3v2h-7z"/><circle cx="7" cy="18" r="1.6"/><circle cx="17" cy="18" r="1.6"/></svg> Versand in 24 h</span>
   <span><svg viewBox="0 0 24 24" fill="none" stroke-width="1.8"><path d="M12 3l7 3v6c0 4.2-2.9 7.7-7 9-4.1-1.3-7-4.8-7-9V6z"/></svg> Diskret verpackt</span>
   <span><svg viewBox="0 0 24 24" fill="none" stroke-width="1.8"><path d="M4 6h16v12H4z"/><path d="M8 10h8"/></svg> Ab 49 € versandkostenfrei</span>
-  <span><svg viewBox="0 0 24 24" fill="none" stroke-width="1.8"><path d="M12 3l2.6 5.6 6.1.8-4.5 4.3 1.1 6-5.3-3-5.3 3 1.1-6L3.3 9.4l6.1-.8z"/></svg> 4.8/5 aus 2.400+ Bewertungen</span>
+  <span><svg viewBox="0 0 24 24" fill="none" stroke-width="1.8"><path d="M12 3l2.6 5.6 6.1.8-4.5 4.3 1.1 6-5.3-3-5.3 3 1.1-6L3.3 9.4l6.1-.8z"/></svg> HEADSHOP SEIT 2019 · AUS DEUTSCHLAND</span>
 </div></div>
 <header class="site"><div class="wrap">
   <a class="logo" href="index.html">Bubatz<small>Only · Headshop</small></a>
@@ -48,7 +48,7 @@
         <svg viewBox="0 0 24 24" fill="none" stroke="currentColor" stroke-width="2"><path d="M5 12h13M13 6l6 6-6 6"/></svg></a>
       <a class="link-quiet" href="#">Mystery Box ansehen</a>
     </div>
-    <div class="proof"><span class="stars"><svg viewBox="0 0 24 24"><path d="M12 2l3.1 6.3 6.9 1-5 4.9 1.2 6.8L12 17.8 5.8 21l1.2-6.8-5-4.9 6.9-1z"/></svg><svg viewBox="0 0 24 24"><path d="M12 2l3.1 6.3 6.9 1-5 4.9 1.2 6.8L12 17.8 5.8 21l1.2-6.8-5-4.9 6.9-1z"/></svg><svg viewBox="0 0 24 24"><path d="M12 2l3.1 6.3 6.9 1-5 4.9 1.2 6.8L12 17.8 5.8 21l1.2-6.8-5-4.9 6.9-1z"/></svg><svg viewBox="0 0 24 24"><path d="M12 2l3.1 6.3 6.9 1-5 4.9 1.2 6.8L12 17.8 5.8 21l1.2-6.8-5-4.9 6.9-1z"/></svg><svg viewBox="0 0 24 24"><path d="M12 2l3.1 6.3 6.9 1-5 4.9 1.2 6.8L12 17.8 5.8 21l1.2-6.8-5-4.9 6.9-1z"/></svg></span><b>4,8/5</b> <span>aus 2.400+ Bewertungen · 12.000+ Bestellungen</span></div>
+    <div class="proof"><b>24-h-Versand</b> · diskret verpackt · <b>ab 49 € versandkostenfrei</b></div>
   </div>
   <div class="heroshot">
     <div class="tile main">
@@ -65,7 +65,7 @@
   <div class="benefit"><svg viewBox="0 0 24 24" fill="none" stroke-width="1.7"><path d="M3 7h11v8H3zM14 10h4l3 3v2h-7z"/><circle cx="7" cy="18" r="1.6"/><circle cx="17" cy="18" r="1.6"/></svg><div><b>24h-Versand</b><span>Bestellungen vor 15 Uhr raus</span></div></div>
   <div class="benefit"><svg viewBox="0 0 24 24" fill="none" stroke-width="1.7"><path d="M12 3l7 3v6c0 4.2-2.9 7.7-7 9-4.1-1.3-7-4.8-7-9V6z"/><path d="M9 12l2.2 2.2L15.5 10"/></svg><div><b>Diskret</b><span>Neutraler Karton, kein Aufdruck</span></div></div>
   <div class="benefit"><svg viewBox="0 0 24 24" fill="none" stroke-width="1.7"><path d="M4 7h16v10H4z"/><path d="M4 12h16"/><path d="M8 15h3"/></svg><div><b>Ab 49 € frei</b><span>DHL GoGreen, DE/AT/CH</span></div></div>
-  <div class="benefit"><svg viewBox="0 0 24 24" fill="none" stroke-width="1.7"><path d="M12 3l2.6 5.6 6.1.8-4.5 4.3 1.1 6-5.3-3-5.3 3 1.1-6L3.3 9.4l6.1-.8z"/></svg><div><b>4,8/5</b><span>2.400+ verifizierte Bewertungen</span></div></div>
+  <div class="benefit"><svg viewBox="0 0 24 24" fill="none" stroke-width="1.7"><path d="M12 3l2.6 5.6 6.1.8-4.5 4.3 1.1 6-5.3-3-5.3 3 1.1-6L3.3 9.4l6.1-.8z"/></svg><div><b>PayPal &amp; Klarna</b><span>Zahlung wie gewohnt</span></div></div>
 </div></div>
 
 <section class="pad"><div class="wrap">
@@ -115,7 +115,7 @@
       <div class="eyebrow" style="color:var(--mint)">Deal der Woche</div>
       <h3>RAW x Hammercraft Grinder ø 62 mm</h3>
       <p>Vierteilig, CNC-gefräst, mit Pollinator-Sieb. Diese Woche zum Bestpreis — solange der Vorrat reicht.</p>
-      <div class="prices"><b>24,99 €</b><s>29,99 €</s><span class="off">-17%</span></div>
+      <div class="prices"><b>21,99 €</b><s>24,99 €</s><span class="off">-12%</span></div>
       <div class="timer"><div><b>02</b><span>Tage</span></div><div><b>14</b><span>Std</span></div><div><b>38</b><span>Min</span></div><div><b>07</b><span>Sek</span></div></div>
       <a class="btn btn-light" href="produkt.html">Deal sichern</a>
     </div>
@@ -267,18 +267,13 @@
 
 <section class="revband"><div class="wrap" style="padding:64px 28px">
   <div class="revtop">
-    <div class="big">4,8</div>
-    <div class="meta"><span class="stars"><svg viewBox="0 0 24 24"><path d="M12 2l3.1 6.3 6.9 1-5 4.9 1.2 6.8L12 17.8 5.8 21l1.2-6.8-5-4.9 6.9-1z"/></svg><svg viewBox="0 0 24 24"><path d="M12 2l3.1 6.3 6.9 1-5 4.9 1.2 6.8L12 17.8 5.8 21l1.2-6.8-5-4.9 6.9-1z"/></svg><svg viewBox="0 0 24 24"><path d="M12 2l3.1 6.3 6.9 1-5 4.9 1.2 6.8L12 17.8 5.8 21l1.2-6.8-5-4.9 6.9-1z"/></svg><svg viewBox="0 0 24 24"><path d="M12 2l3.1 6.3 6.9 1-5 4.9 1.2 6.8L12 17.8 5.8 21l1.2-6.8-5-4.9 6.9-1z"/></svg><svg viewBox="0 0 24 24"><path d="M12 2l3.1 6.3 6.9 1-5 4.9 1.2 6.8L12 17.8 5.8 21l1.2-6.8-5-4.9 6.9-1z"/></svg></span><br>aus 2.412 verifizierten Bewertungen</div>
-    <a class="link-quiet" href="#" style="margin-left:auto">Alle Bewertungen</a>
+    <div class="big">3</div>
+    <div class="meta"><b>echte Bewertungen im Shop</b> — eine je Artikel: GIZEH Rainbow Active Filter Slim,
+      OCB Schwarz Premium Long Slim, GRANNY&#39;S Aktivkohlefilter Hybrid Deluxe.</div>
   </div>
-  <div class="revgrid">
-    <div class="rev"><span class="stars"><svg viewBox="0 0 24 24"><path d="M12 2l3.1 6.3 6.9 1-5 4.9 1.2 6.8L12 17.8 5.8 21l1.2-6.8-5-4.9 6.9-1z"/></svg><svg viewBox="0 0 24 24"><path d="M12 2l3.1 6.3 6.9 1-5 4.9 1.2 6.8L12 17.8 5.8 21l1.2-6.8-5-4.9 6.9-1z"/></svg><svg viewBox="0 0 24 24"><path d="M12 2l3.1 6.3 6.9 1-5 4.9 1.2 6.8L12 17.8 5.8 21l1.2-6.8-5-4.9 6.9-1z"/></svg><svg viewBox="0 0 24 24"><path d="M12 2l3.1 6.3 6.9 1-5 4.9 1.2 6.8L12 17.8 5.8 21l1.2-6.8-5-4.9 6.9-1z"/></svg><svg viewBox="0 0 24 24"><path d="M12 2l3.1 6.3 6.9 1-5 4.9 1.2 6.8L12 17.8 5.8 21l1.2-6.8-5-4.9 6.9-1z"/></svg></span><p>„Bestellung Freitag raus, Samstag da. Verpackung komplett neutral — so muss das.“</p>
-      <div class="who"><span class="avatar">MK</span><div><b>Michael K.</b><div class="verified"><svg viewBox="0 0 24 24" fill="none" stroke="currentColor" stroke-width="2.4"><path d="M4 12l5 5L20 6"/></svg> Verifizierter Kauf</div></div></div></div>
-    <div class="rev"><span class="stars"><svg viewBox="0 0 24 24"><path d="M12 2l3.1 6.3 6.9 1-5 4.9 1.2 6.8L12 17.8 5.8 21l1.2-6.8-5-4.9 6.9-1z"/></svg><svg viewBox="0 0 24 24"><path d="M12 2l3.1 6.3 6.9 1-5 4.9 1.2 6.8L12 17.8 5.8 21l1.2-6.8-5-4.9 6.9-1z"/></svg><svg viewBox="0 0 24 24"><path d="M12 2l3.1 6.3 6.9 1-5 4.9 1.2 6.8L12 17.8 5.8 21l1.2-6.8-5-4.9 6.9-1z"/></svg><svg viewBox="0 0 24 24"><path d="M12 2l3.1 6.3 6.9 1-5 4.9 1.2 6.8L12 17.8 5.8 21l1.2-6.8-5-4.9 6.9-1z"/></svg><svg viewBox="0 0 24 24"><path d="M12 2l3.1 6.3 6.9 1-5 4.9 1.2 6.8L12 17.8 5.8 21l1.2-6.8-5-4.9 6.9-1z"/></svg></span><p>„Der Grinder läuft nach einem Jahr noch wie am ersten Tag. Qualität stimmt, Preis auch.“</p>
-      <div class="who"><span class="avatar">LS</span><div><b>Lena S.</b><div class="verified"><svg viewBox="0 0 24 24" fill="none" stroke="currentColor" stroke-width="2.4"><path d="M4 12l5 5L20 6"/></svg> Verifizierter Kauf</div></div></div></div>
-    <div class="rev"><span class="stars"><svg viewBox="0 0 24 24"><path d="M12 2l3.1 6.3 6.9 1-5 4.9 1.2 6.8L12 17.8 5.8 21l1.2-6.8-5-4.9 6.9-1z"/></svg><svg viewBox="0 0 24 24"><path d="M12 2l3.1 6.3 6.9 1-5 4.9 1.2 6.8L12 17.8 5.8 21l1.2-6.8-5-4.9 6.9-1z"/></svg><svg viewBox="0 0 24 24"><path d="M12 2l3.1 6.3 6.9 1-5 4.9 1.2 6.8L12 17.8 5.8 21l1.2-6.8-5-4.9 6.9-1z"/></svg><svg viewBox="0 0 24 24"><path d="M12 2l3.1 6.3 6.9 1-5 4.9 1.2 6.8L12 17.8 5.8 21l1.2-6.8-5-4.9 6.9-1z"/></svg><svg viewBox="0 0 24 24"><path d="M12 2l3.1 6.3 6.9 1-5 4.9 1.2 6.8L12 17.8 5.8 21l1.2-6.8-5-4.9 6.9-1z"/></svg></span><p>„Support hat auf eine Frage in 20 Minuten geantwortet. Und die Mystery Box war stark.“</p>
-      <div class="who"><span class="avatar">TB</span><div><b>Tobias B.</b><div class="verified"><svg viewBox="0 0 24 24" fill="none" stroke="currentColor" stroke-width="2.4"><path d="M4 12l5 5L20 6"/></svg> Verifizierter Kauf</div></div></div></div>
-  </div>
+  <p style="max-width:64ch;margin:20px 0 0;font-size:14px;line-height:1.65">Sobald die Bewertungs-App an die Bestellungen
+    angebunden ist, stehen hier echte Sterne und echte Kundenstimmen. Erfundene Bewertungen, Namen und Bestellzahlen
+    gibt es in dieser Vorschau bewusst nicht.</p>
 </div></section>
 
 <section><div class="wrap"><div class="news">

diff --git a/v27/ergebnis.html b/v27/ergebnis.html
@@ -73,7 +73,7 @@
       <div class="shot"><span class="tagx">Live — heute</span><img src="shots/live-home.jpg" alt="Live-Startseite"></div>
       <div class="shot new"><span class="tagx">v27 — Vorschlag</span><img src="shots/v27-home.jpg" alt="v27-Startseite"></div>
     </div>
-    <div class="note"><span>→</span><span><b>Dazu gekommen:</b> Trust-Zeile (24 h · diskret · ab 49 € frei · 4,8/5), Kategorien im Hauptmenü, eigener Deal-Block, Bestseller mit Sternen.</span></div>
+    <div class="note"><span>→</span><span><b>Dazu gekommen:</b> Trust-Zeile (24 h · diskret · ab 49 € frei), Kategorien im Hauptmenü, eigener Deal-Block, Bestseller-Collection.</span></div>
   </section>
 
   <section class="cmp">
@@ -97,7 +97,7 @@
       <div class="shot"><span class="tagx">Live — heute</span><img src="shots/live-pdp.jpg" alt="Live-Produktseite"></div>
       <div class="shot new"><span class="tagx">v27 — Vorschlag</span><img src="shots/v27-pdp.jpg" alt="v27-Produktseite"></div>
     </div>
-    <div class="note"><span>→</span><span><b>Neu dazu:</b> Bewertungen mit Sternen, „Passt dazu"-Cross-Sell, Liefertermin, Vertrauenskasten, Accordion statt Textwand.</span></div>
+    <div class="note"><span>→</span><span><b>Neu dazu:</b> „Passt dazu"-Cross-Sell, Liefertermin, Vertrauenskasten, Accordion statt Textwand.</span></div>
   </section>
 
   <section class="done">
@@ -117,7 +117,7 @@
     <ol>
       <li><b>Live-Seite umbauen:</b> Der Live-Shop läuft nicht über Shopify, sondern über ein eigenes Frontend (Hydrogen auf Oxygen). Dessen Code liegt nicht auf diesem Rechner — ohne den Ordner kann ich Hero, Kaufbox und Grid nicht live stellen.</li>
       <li><b>70 Produkte ohne Live-Bild:</b> In Shopify gibt es 70 Artikel, die im Live-Katalog kein Bild haben (z. B. VOLCANO CLASSIC/HYBRID, Mystery Box, Gunnysack). Die brauchen echte Fotos oder müssen aus dem Sortiment.</li>
-      <li><b>Bewertungen:</b> Sterne, Anzahl und Texte in dieser Vorschau sind Platzhalter. Für echte Zahlen braucht der Shop eine Bewertungs-App mit Bestellbezug.</li>
+      <li><b>Bewertungen:</b> In dieser Vorschau stehen <b>keine erfundenen Sterne und keine erfundenen Kunden</b>. Der Shop hat aktuell drei echte Bewertungen (GIZEH Rainbow, OCB Schwarz Premium, GRANNY&#39;S Hybrid Deluxe) — echte Sterne erscheinen, sobald die Bewertungs-App angebunden ist.</li>
     </ol>
   </div>
 </div>
